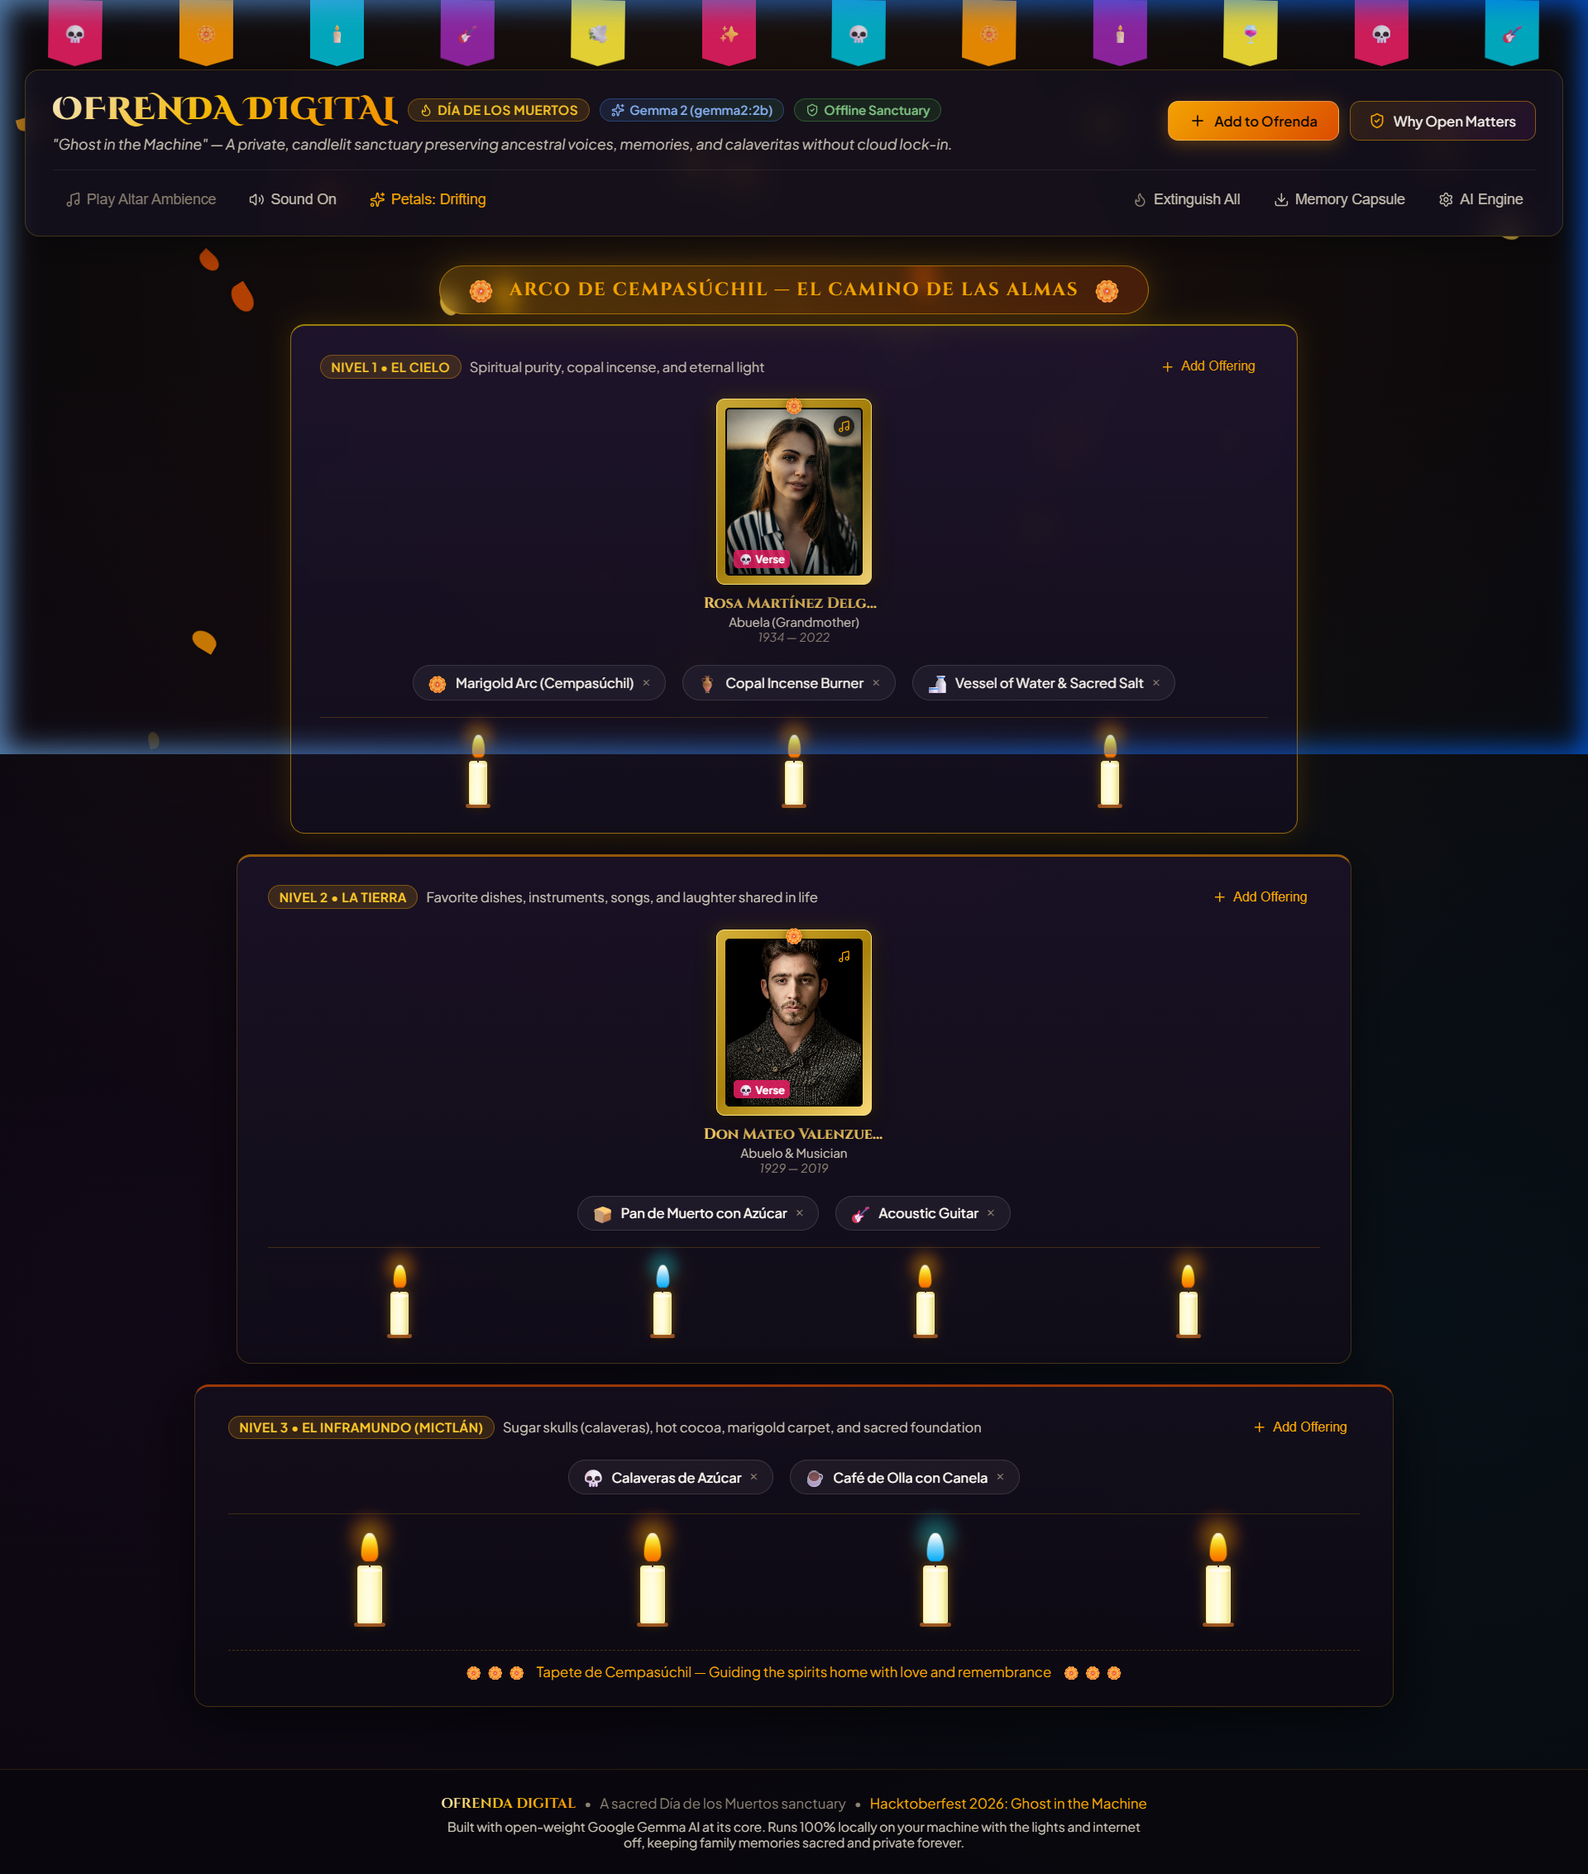
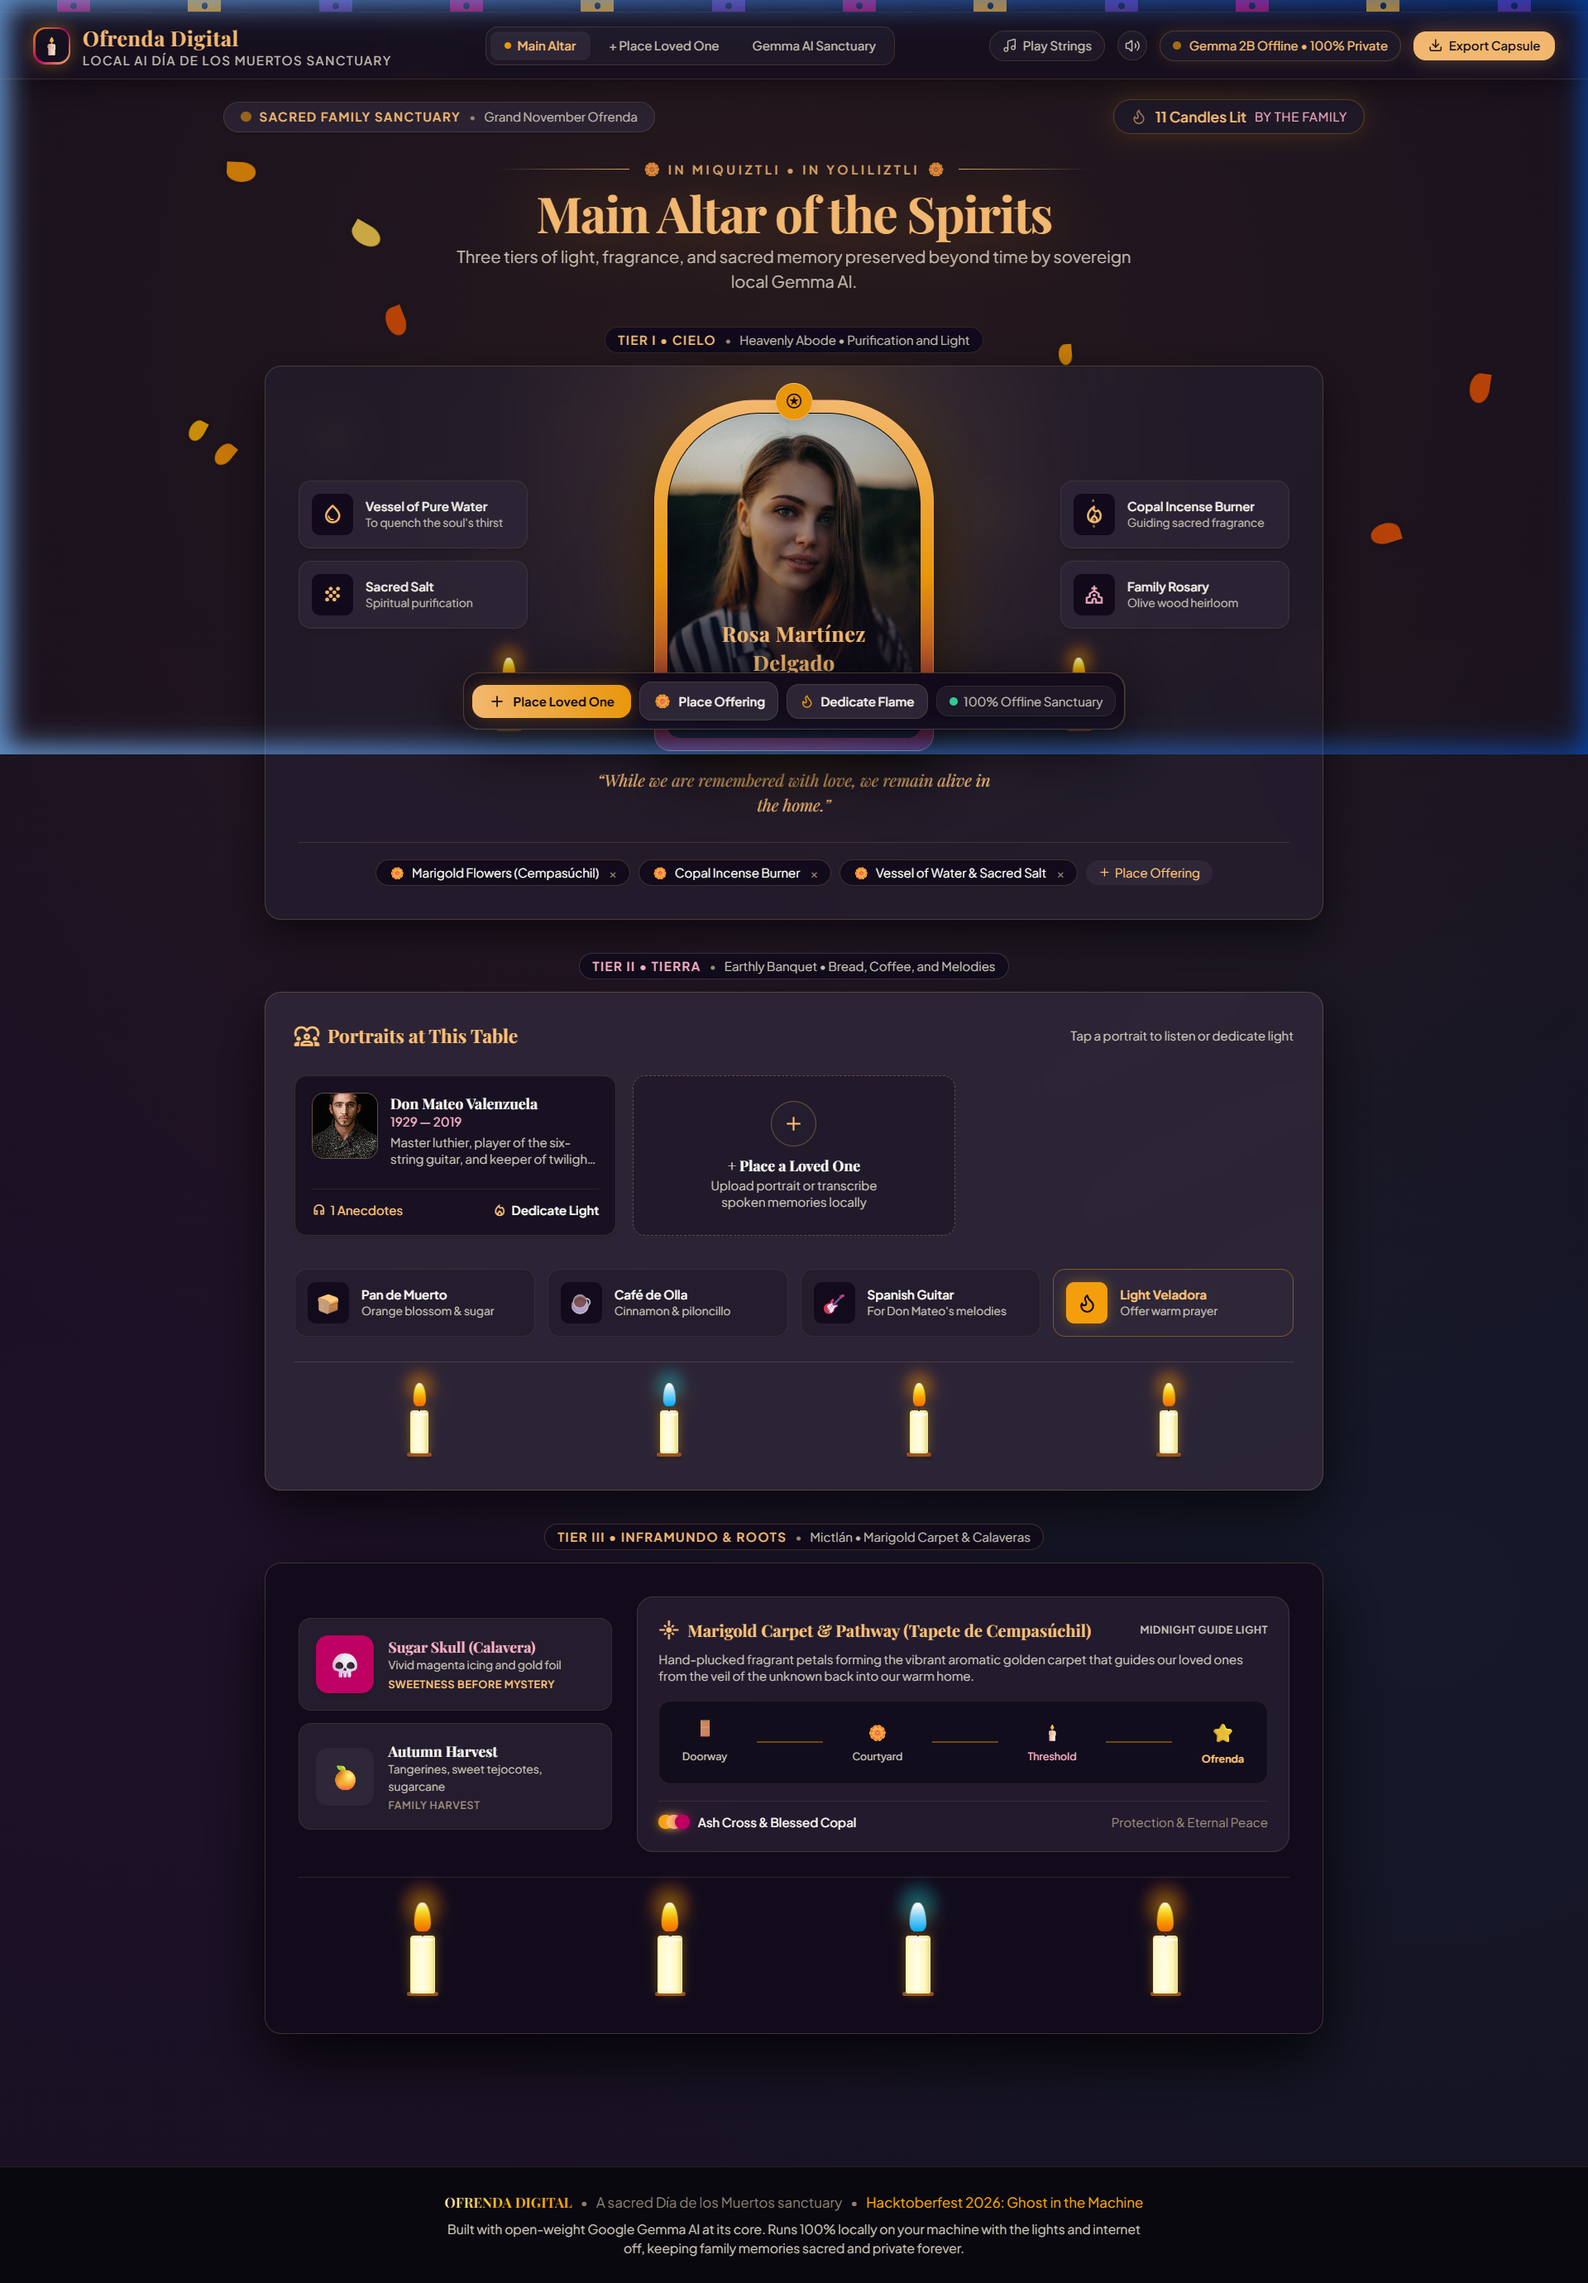
docs: update DEV submission and README with Google Stitch previews

diff --git a/DEV_SUBMISSION.md b/DEV_SUBMISSION.md
@@ -16,19 +16,19 @@ Between October 31 (Halloween) and November 1–2 (Día de los Muertos), our cal
 **Ofrenda Digital** is an intimate, interactive virtual sanctuary and oral history preserver built around **open-weight Google Gemma AI**.
 
 ### Core Capabilities:
-1. **Interactive 3-Tier Altar (Los Tres Niveles):**
-   - **Tier 1 (El Cielo / The Heavens):** Spiritual purity, ancestral portraits in baroque golden frames, copal incense burner with rising animated smoke curls, vessel of pure water, and holy salt.
-   - **Tier 2 (La Tierra / Earthly Remembrances):** Loved ones' portraits surrounded by their favorite earthly joys — freshly baked pan de muerto, clay pot coffee (*café de olla*), acoustic guitars, and secret family recipe books.
-   - **Tier 3 (El Inframundo / Mictlán & Foundation):** Brightly iced sugar skulls (*calaveras de azúcar*), fruit baskets, a carpet of marigold petals, and warm path candles.
-2. **Dynamic Candlelight & Procedural Ambient Soundscapes:**
-   - Real-time clickable candles with flame flicker physics. Clicking a candle plays an authentic chime and dedicates light to an ancestor.
-   - A built-in procedural Web Audio synthesizer that generates contemplative nylon-string guitar arpeggios and resonant altar bell chimes without requiring external audio downloads.
-   - Floating marigold petals drifting gently across the screen.
-3. **Open-Weight Gemma AI Remembrance Engine:**
-   - **Oral History Preserver:** Speak into your microphone (via Web Speech API) or type raw stream-of-consciousness childhood memories. Gemma synthesizes conversational snippets into enduring, literary biographical prose capsules.
-   - **Calaverita Literaria Generator:** Gemma drafts traditional rhyming Spanish folk verses celebrating each person’s humor, favorite dishes, and endearing quirks in the classic style of José Guadalupe Posada.
+1. **Interactive 3-Tier Baroque Altar (Los Tres Niveles):**
+   - **Tier 1 (El Cielo / The Heavens):** Spiritual purity, grand baroque golden arched frames with inner velvet borders, copal incense burner with rising animated smoke curls, vessel of pure water, and sacred salt.
+   - **Tier 2 (La Tierra / Earthly Remembrances):** Loved ones' portrait gallery surrounded by their favorite earthly joys — freshly baked pan de muerto, clay pot coffee (*café de olla*), acoustic guitars, and secret family recipes.
+   - **Tier 3 (El Inframundo / Mictlán & Roots):** Vividly iced sugar skulls (*calaveras de azúcar*), autumn fruit baskets, and the luminous **Marigold Carpet (*Tapete de Cempasúchil*)** guiding path nodes (Doorway → Courtyard → Threshold → Ofrenda).
+2. **Authentic Scalloped Papel Picado Ribbon & Atmospheric Physics:**
+   - Real-time clickable candles with flame flicker physics. Clicking a candle plays an authentic chime, increases the living flame counter ("Lit by the Family"), and dedicates light to an ancestor.
+   - A built-in procedural Web Audio synthesizer that generates contemplative nylon-string guitar arpeggios and resonant altar bell chimes without requiring external audio downloads or latency.
+   - Floating marigold petals drifting gently across the screen with natural ambient turbulence.
+3. **Open-Weight Gemma AI Remembrance Engine (Slide-Over Sanctuary Drawer):**
+   - **Oral History Preserver:** Speak into your microphone (via Web Speech API) or type raw stream-of-consciousness childhood memories. Gemma synthesizes conversational snippets into enduring, literary biographical prose capsules on aged parchment with wax seals.
+   - **Calaverita Literaria Studio:** Gemma drafts traditional 4-stanza octosyllabic rhyming folk verses celebrating each person’s humor, favorite dishes, and endearing quirks in the classic style of José Guadalupe Posada.
    - **Altar Remembrance Letters:** Generates formal, deeply moving eulogy letters to be placed beside family photos and read aloud at the altar.
-   - **Channel Ancestral Wisdom (Ghost in the Machine):** Ask an ancestor for life guidance or share what is on your heart. Gemma channels their voice, grounded in their personality, life values, and favorite sayings.
+   - **Ancestral Wisdom Dialogue (Ghost in the Machine):** Ask an ancestor for life guidance or share what is on your heart. Gemma channels their voice, grounded in their personality, life values, and favorite sayings.
 4. **100% Offline & Private "Memory Capsules":**
    - Zero telemetry, zero external tracking, zero cloud server dependencies.
    - Export and import full **Memory Capsules** (`ofrenda-capsule.json`) to keep on a private USB flash drive or pass down through generations.
@@ -39,12 +39,16 @@ Between October 31 (Halloween) and November 1–2 (Día de los Muertos), our cal
 
 - **Live Production App:** [https://ofrenda-digital.onrender.com](https://ofrenda-digital.onrender.com)
 - **1-Click Deploy to Render:** [![Deploy to Render](https://render.com/images/deploy-to-render-button.svg)](https://render.com/deploy?repo=https://github.com/sachinn-alt/ofrenda-digital)
+- **GitHub Repository:** [https://github.com/sachinn-alt/ofrenda-digital](https://github.com/sachinn-alt/ofrenda-digital)
 - **Live Local Preview:** Runs on `http://localhost:5174/`
-- **Interactive Walkthrough Video / Screenshots:**
 
-![Ofrenda Digital Altar Preview](https://raw.githubusercontent.com/sachinn-alt/ofrenda-digital/main/preview.png)
+### Visual Walkthrough
 
-*The candlelit 3-tier altar featuring the Marigold Arch, Doña Rosa and Don Mateo's memorial frames, traditional offerings, and procedural ambient strings.*
+![Ofrenda Digital 3-Tier Altar](https://raw.githubusercontent.com/sachinn-alt/ofrenda-digital/main/preview.png)
+*The candlelit 3-tier altar featuring the Baroque Golden Arch, Doña Rosa and Don Mateo's memorial frames, traditional offerings, and procedural ambient strings.*
+
+![Slide-Over Sanctuary Drawer & Calaverita Studio](https://raw.githubusercontent.com/sachinn-alt/ofrenda-digital/main/drawer_preview.png)
+*The Slide-Over Sanctuary Drawer featuring the Calaverita Literaria Studio, Oral History Weaver, and Ancestral Dialogue.*
 
 ---
 

diff --git a/README.md b/README.md
@@ -17,6 +17,12 @@ Between Halloween night (October 31) and Día de los Muertos (November 1 & 2), t
 
 **Ofrenda Digital** translates this ancient practice into a private, local-first interactive sanctuary. Rather than sending sacred family memories, photographs, and spoken grief to corporate cloud APIs, **Ofrenda Digital runs open-weight Google Gemma models entirely on your local machine**. It works with the internet and lights turned off, preserving family oral histories, crafting authentic *Calaveritas Literarias*, and channeling ancestral reflections in total privacy.
 
+![Ofrenda Digital 3-Tier Altar](preview.png)
+*The candlelit 3-tier altar featuring the Baroque Golden Arch, Doña Rosa and Don Mateo's memorial frames, traditional offerings, and procedural ambient strings.*
+
+![Slide-Over Sanctuary Drawer & Calaverita Studio](drawer_preview.png)
+*The Slide-Over Sanctuary Drawer featuring the Calaverita Literaria Studio, Oral History Weaver, and Ancestral Dialogue.*
+
 ---
 
 ## ✨ Key Features
